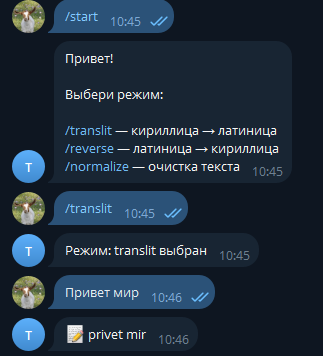
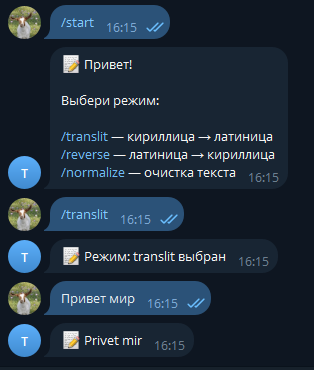
Add Tests !

diff --git a/spec/bot_handler_spec.rb b/spec/bot_handler_spec.rb
@@ -1,0 +1,78 @@
+require 'bot_handler'
+require 'mygem'
+
+RSpec.describe BotHandler do
+  let(:handler) { BotHandler.new }
+  let(:chat_id) { 1 }
+
+  describe '#handle' do
+    context 'команды' do
+      it 'обрабатывает /start' do
+        expect(handler.handle(chat_id, '/start')).to include('Привет')
+      end
+
+      it 'устанавливает translit режим' do
+        expect(handler.handle(chat_id, '/translit'))
+          .to eq('Режим: translit выбран')
+      end
+
+      it 'устанавливает reverse режим' do
+        expect(handler.handle(chat_id, '/reverse'))
+          .to eq('Режим: reverse выбран')
+      end
+
+      it 'устанавливает normalize режим' do
+        expect(handler.handle(chat_id, '/normalize'))
+          .to eq('Режим: normalize выбран')
+      end
+    end
+
+    context 'без режима' do
+      it 'просит выбрать режим' do
+        expect(handler.handle(chat_id, 'привет'))
+          .to include('Сначала выбери режим')
+      end
+    end
+
+    context 'translit' do
+      it 'переводит кириллицу в латиницу' do
+        handler.handle(chat_id, '/translit')
+        expect(handler.handle(chat_id, 'привет')).to eq('privet')
+      end
+    end
+
+    context 'reverse' do
+      it 'переводит латиницу в кириллицу' do
+        handler.handle(chat_id, '/reverse')
+        expect(handler.handle(chat_id, 'privet')).to eq('привет')
+      end
+
+      it 'сохраняет символы' do
+        handler.handle(chat_id, '/reverse')
+        expect(handler.handle(chat_id, 'privet!!!')).to eq('привет!!!')
+      end
+    end
+
+    context 'normalize' do
+      it 'очищает текст' do
+        handler.handle(chat_id, '/normalize')
+        expect(handler.handle(chat_id, 'Привет!!!')).to eq('привет')
+      end
+    end
+
+    context 'состояние пользователей' do
+      it 'сохраняет режим между сообщениями' do
+        handler.handle(chat_id, '/translit')
+        expect(handler.handle(chat_id, 'привет')).to eq('privet')
+      end
+
+      it 'разные пользователи независимы' do
+        handler.handle(1, '/translit')
+        handler.handle(2, '/reverse')
+
+        expect(handler.handle(1, 'привет')).to eq('privet')
+        expect(handler.handle(2, 'privet')).to eq('привет')
+      end
+    end
+  end
+end

diff --git a/lib/bot_handler.rb b/lib/bot_handler.rb
@@ -1,0 +1,60 @@
+require_relative 'mygem'
+
+class BotHandler
+  def initialize
+    @user_mode = {}
+  end
+
+  def handle(chat_id, text)
+    case text
+
+    when '/start'
+      @user_mode[chat_id] = nil
+      return start_message
+
+    when '/translit'
+      @user_mode[chat_id] = :translit
+      return "Режим: translit выбран"
+
+    when '/reverse'
+      @user_mode[chat_id] = :reverse
+      return "Режим: reverse выбран"
+
+    when '/normalize'
+      @user_mode[chat_id] = :normalize
+      return "Режим: normalize выбран"
+
+    else
+      process_text(chat_id, text)
+    end
+  end
+
+  private
+
+  def start_message
+    <<~TEXT
+      Привет!
+
+      Выбери режим:
+
+      /translit — кириллица → латиница
+      /reverse — латиница → кириллица
+      /normalize — очистка текста
+    TEXT
+  end
+
+  def process_text(chat_id, text)
+    mode = @user_mode[chat_id]
+
+    return "❗ Сначала выбери режим" if mode.nil?
+
+    case mode
+    when :translit
+      Mygem.translit(text)
+    when :reverse
+      Mygem.reverse_translit(text)
+    when :normalize
+      Mygem.normalize(text)
+    end
+  end
+end

diff --git a/bin/bot.rb b/bin/bot.rb
@@ -1,0 +1,17 @@
+require 'telegram/bot'
+require_relative '../lib/bot_handler'
+TOKEN = ENV.fetch('TELEGRAM_BOT_TOKEN')
+handler = BotHandler.new
+
+Telegram::Bot::Client.run(TOKEN) do |bot|
+  bot.listen do |message|
+    next unless message.text
+
+    response = handler.handle(message.chat.id, message.text)
+
+    bot.api.send_message(
+      chat_id: message.chat.id,
+      text: "📝 #{response}"
+    )
+  end
+end
